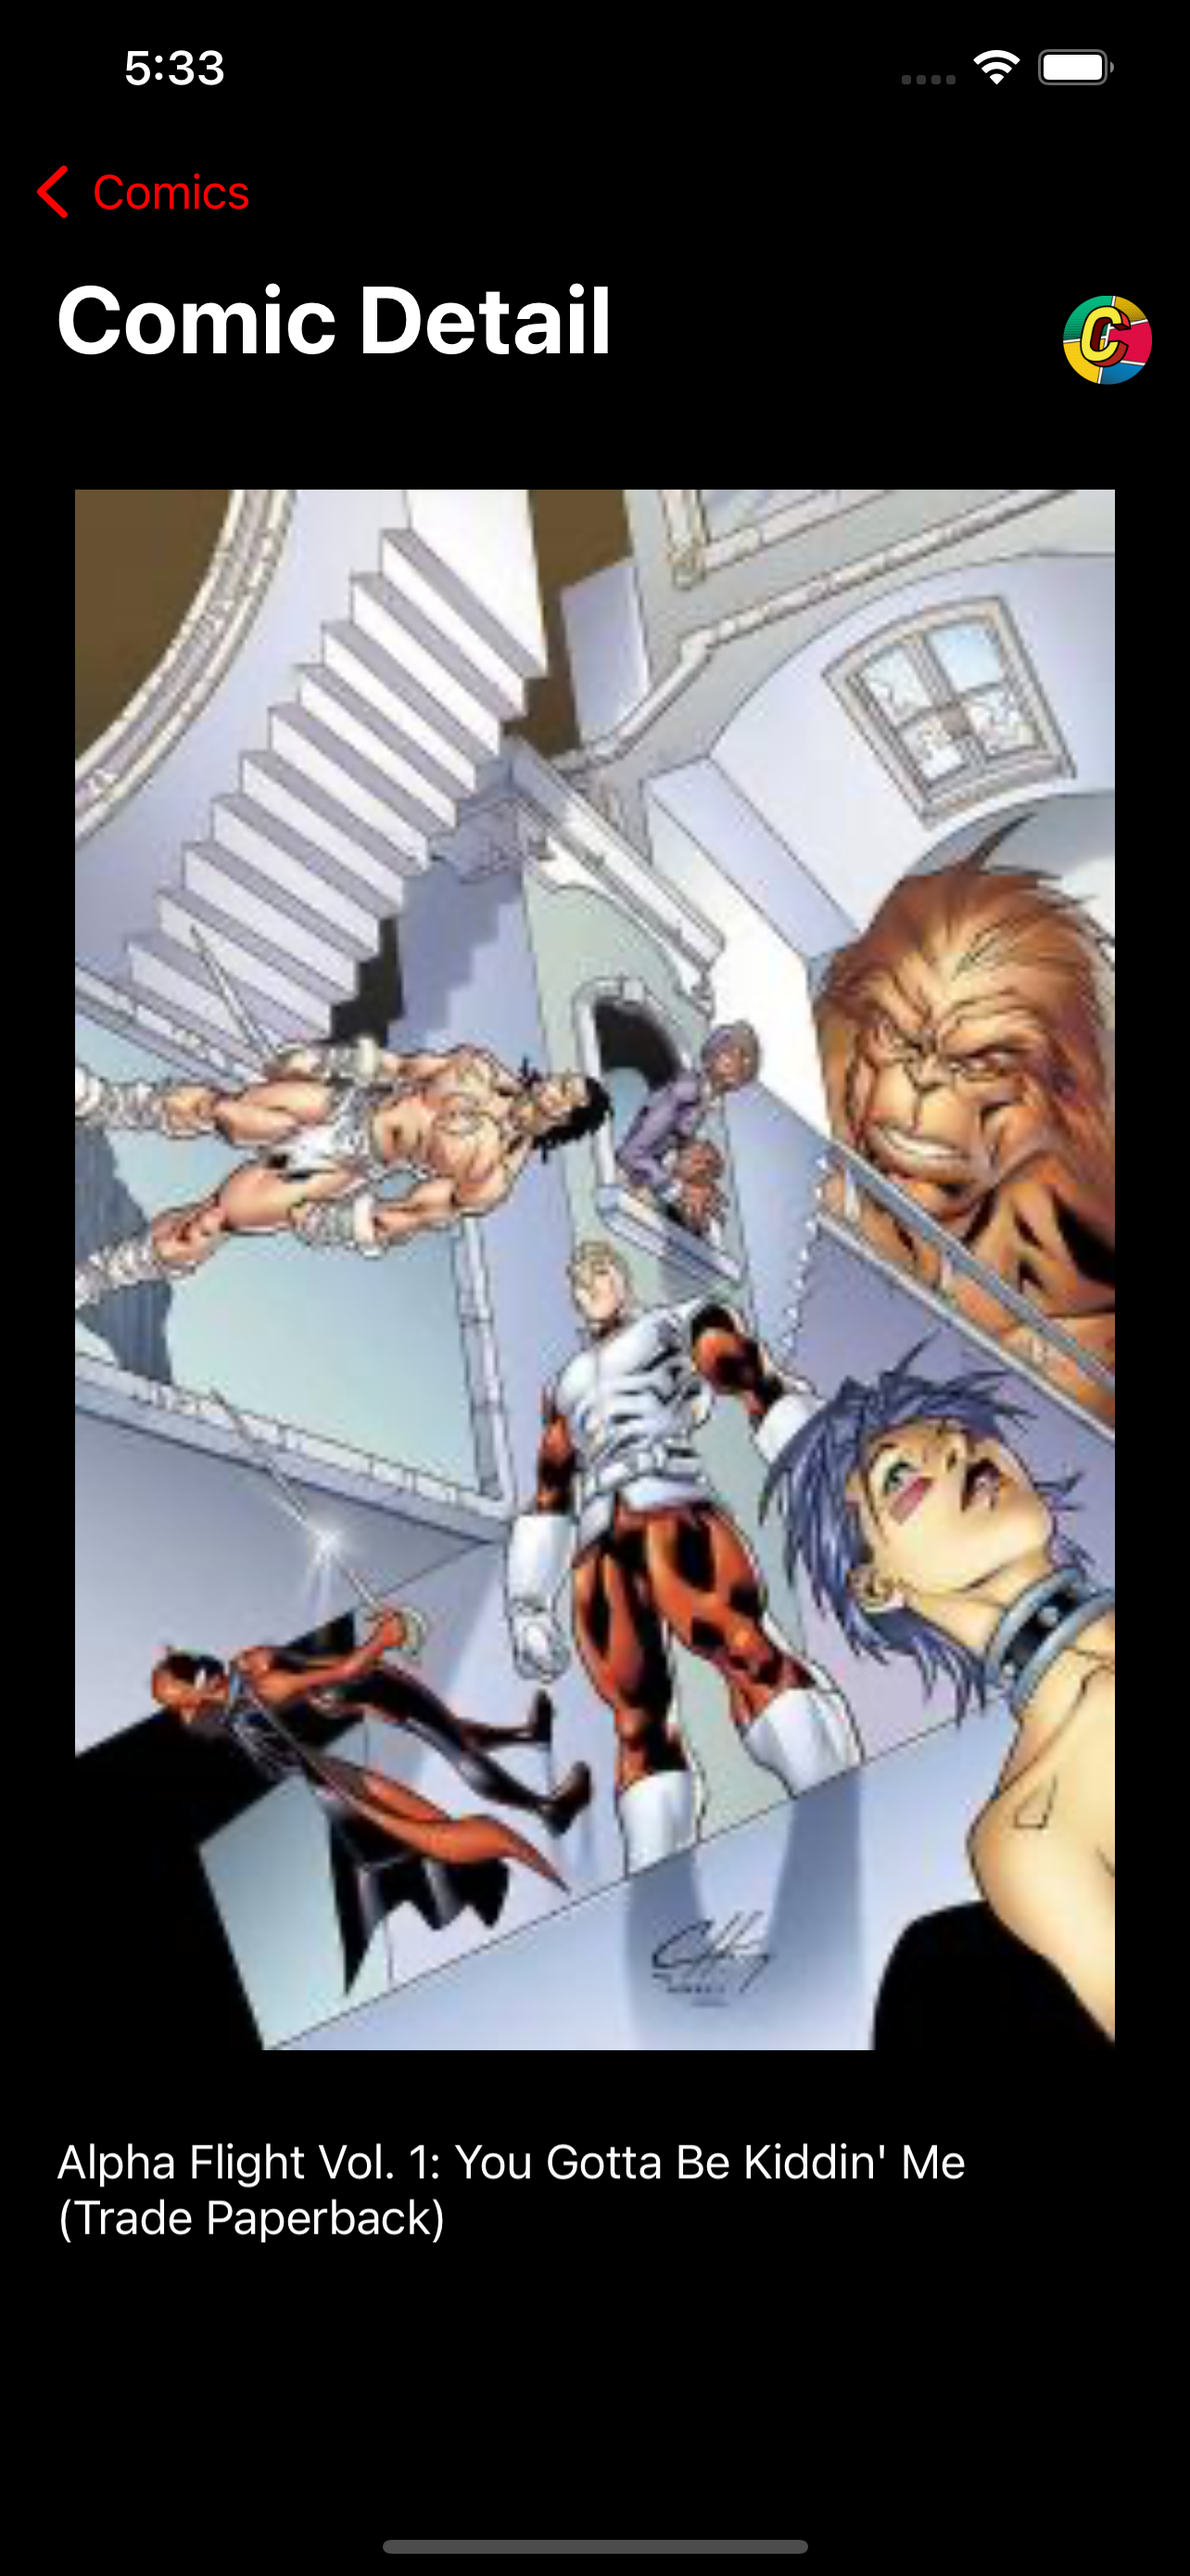
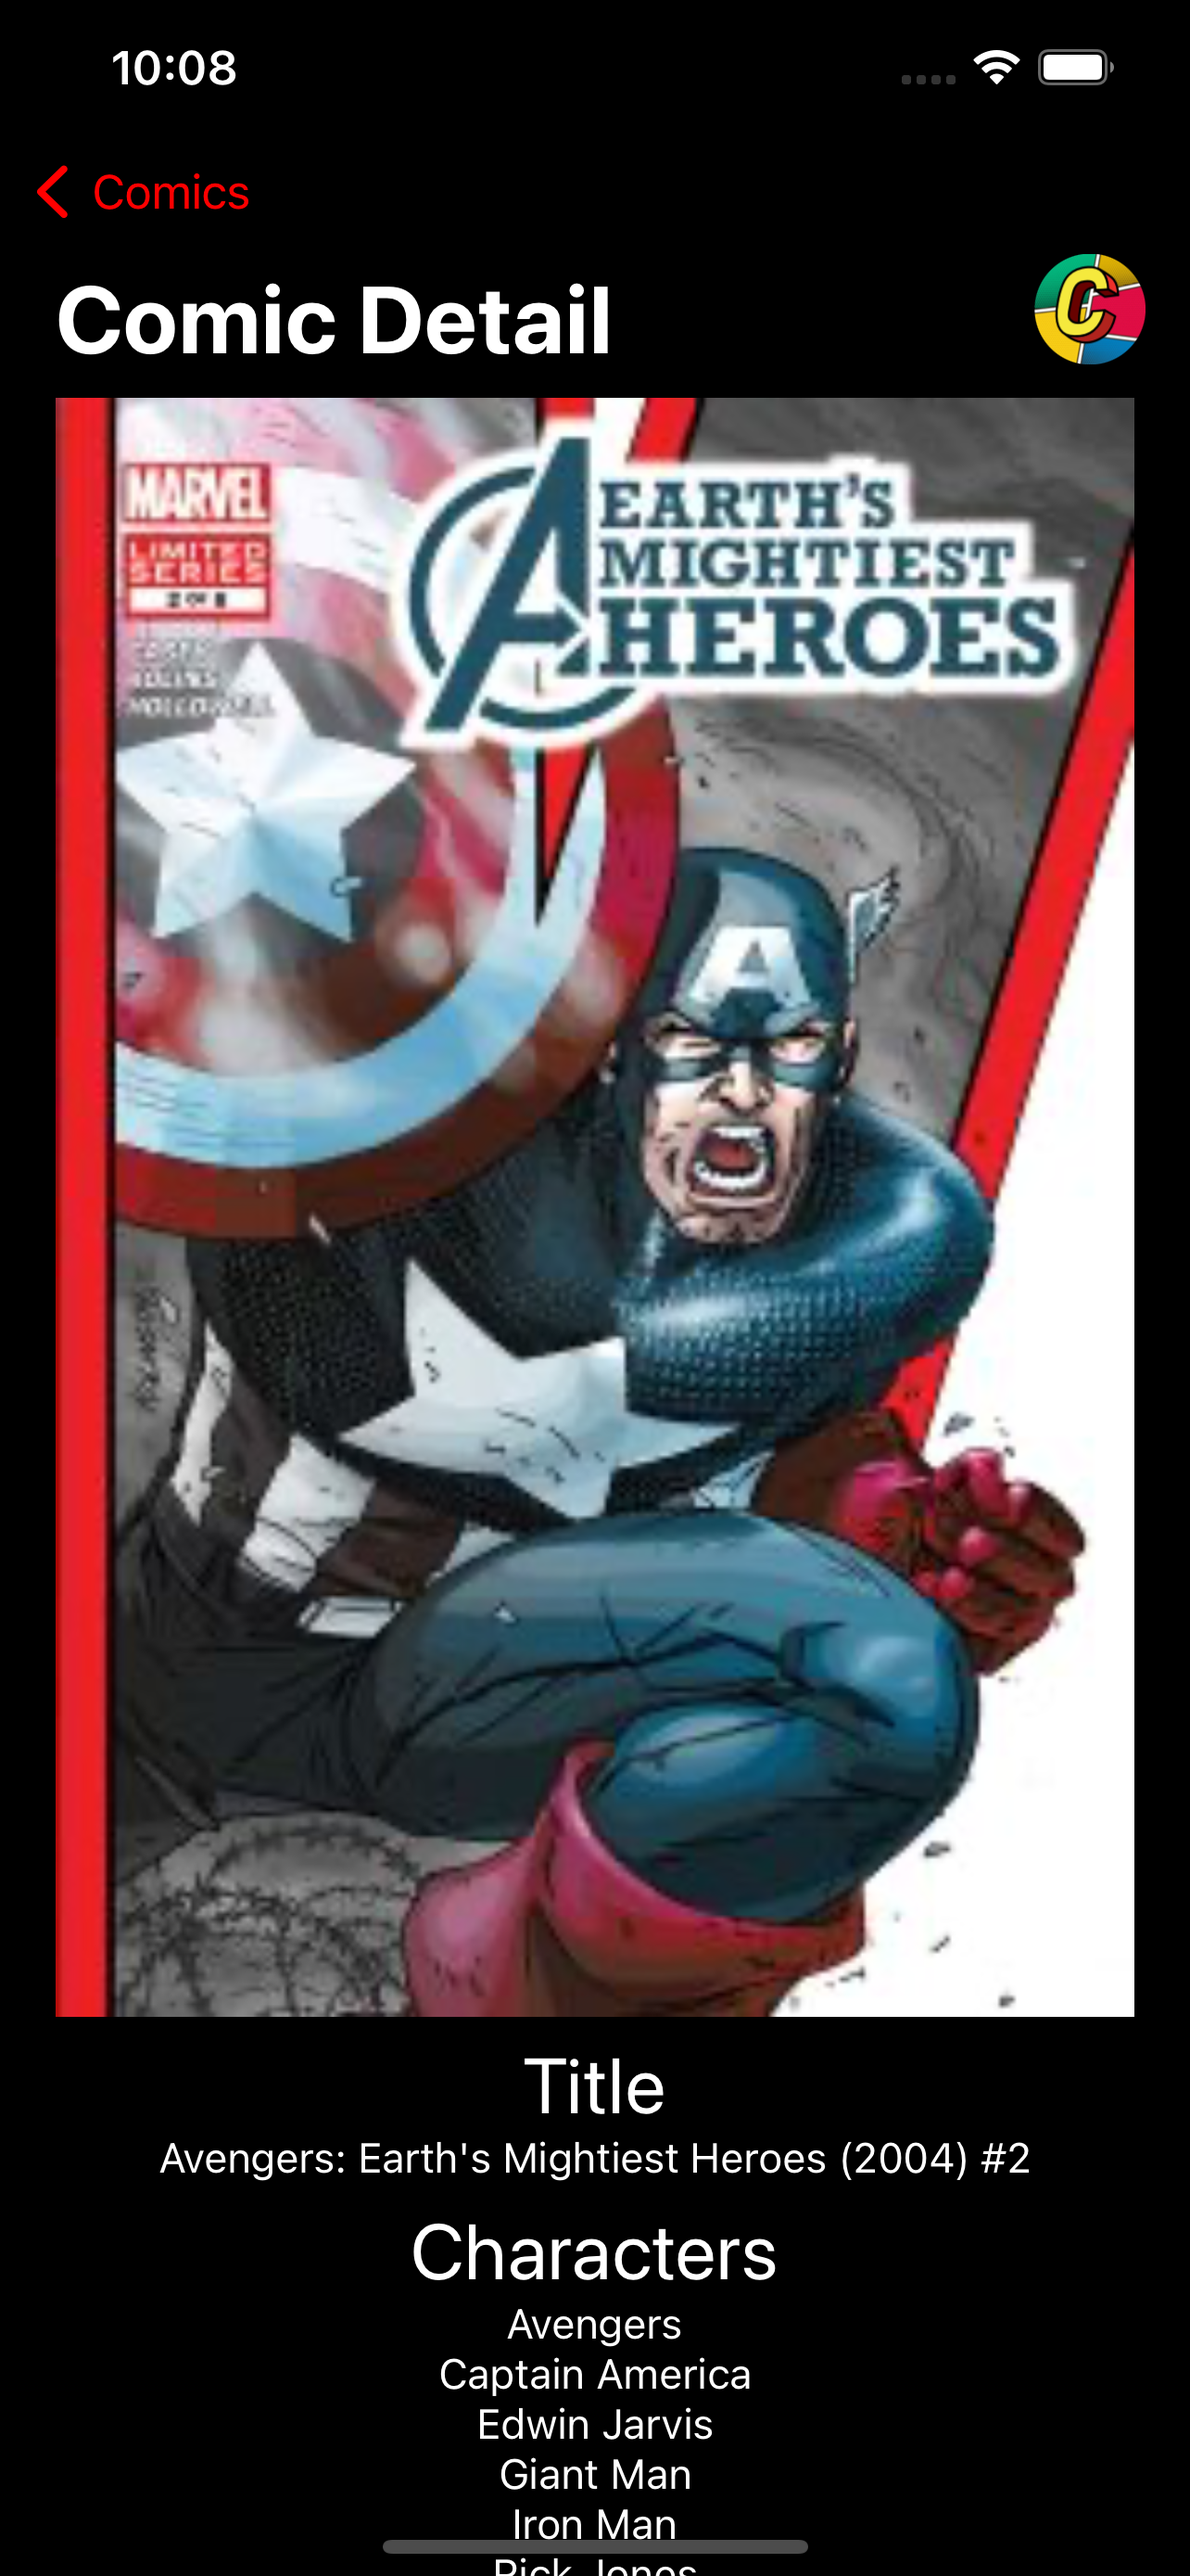
Removing files that are not needed
adding updated screenshots

diff --git a/Comix/ComicsCollectionViewController.swift b/Comix/ComicsCollectionViewController.swift
@@ -73,11 +73,7 @@ class ComicsCollectionViewController: UICollectionViewController {
     }
     
     override func prepare(for segue: UIStoryboardSegue, sender: Any?) {
-        if segue.identifier == DETAIL_SEGUE_IDENTIFER,
-           let destination = segue.destination as? ComixDetailTableViewController,
-           let makeIndex = collectionView.indexPathsForSelectedItems?.first {
-            destination.comic = comics[makeIndex.item]
-        } else if segue.identifier == "ShowDetailSwiftUI",
+        if segue.identifier == "ShowDetailSwiftUI",
                   let destination = segue.destination as? ComicDetailHostingController,
                   let makeIndex = collectionView.indexPathsForSelectedItems?.first {
             destination.rootView.comic = comics[makeIndex.item]

diff --git a/Comix/ComicDetailHostingController.swift b/Comix/ComicDetailHostingController.swift
@@ -14,6 +14,11 @@ class ComicDetailHostingController: UIHostingController<DetailSwiftUIView> {
     required init?(coder aDecoder: NSCoder) {
         super.init(coder: aDecoder, rootView: DetailSwiftUIView())
     }
+    
+    override func viewDidLoad() {
+        super.viewDidLoad()
+        navigationItem.title = "Comic Detail"
+    }
 }
 
 struct DetailSwiftUIView: View {

diff --git a/README.md b/README.md
@@ -5,7 +5,7 @@ This project uses the Marvel API to pull a list of comics and display their cove
 
 ## Considerations
 ### Architectural Choices
-This application uses a UICollectionView as the main view and incorporates a background loading caching queue to allow for more performant scrolling and the UICollectionViewDataSourcePrefetching protocol to allow the application to fetch more data when the user is getting to the end of the list. The UICollectionView uses a custom UICollectionViewCell and a custom UICollectionViewLayout
+This application uses a UICollectionView as the main view and incorporates a background loading caching queue to allow for more performant scrolling and the UICollectionViewDataSourcePrefetching protocol to allow the application to fetch more data when the user is getting to the end of the list. The UICollectionView uses a custom UICollectionViewCell and a custom UICollectionViewLayout. The app uses both UIKit and SwiftUI.
 
 ### Things that need to change
  - The image caching needs to be improved so that it uses some disk caching instead of just using memory cache
@@ -16,6 +16,7 @@ This application uses a UICollectionView as the main view and incorporates a bac
  - Add localized strings
  - Add Analytics
  - Add more tests
+ - More testing in general
 
 ### Libraries Used
 #### Internal
